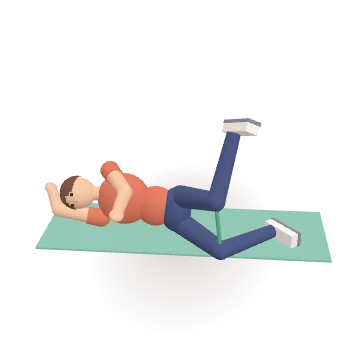
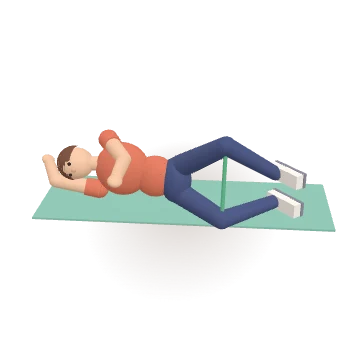
La app pasa a llamarse Mi Gym y se afinan movimientos
- Nombre Mi Gym en el icono del móvil, título, pestaña, bienvenida e
  imagen para compartir
- Revisión de los 68 ejercicios: sentadilla sumo con pies fijos y
  rodillas hacia fuera, apertura de rodilla tumbada (antes 'La almeja')
  abre solo la rodilla con los pies juntos, encogimiento de hombros
  más visible
- Miniaturas regeneradas

Claude-Session: https://claude.ai/code/session_01VezrFMdeigC6m4YvnxJoxX

Changed region(s): [[0.0917, 0.3056, 0.9472, 0.7333]]

diff --git a/js/anims.js b/js/anims.js
@@ -79,11 +79,12 @@
       ],
     },
     "sumo-squat": {
-      cam: 30, props: [{ type: "single" }],
+      cam: 18, pitch: 10, props: [{ type: "single" }], ikFeet: { pole: [0.85, 0.1, 1], from: 0 },
       frames: [
-        { hipL: [0, 22, 32], hipR: [0, 22, 32], shL: [6, -14, 0], shR: [6, -14, 0], elL: 4, elR: 4 },
-        { hipL: [62, 30, 32], hipR: [62, 30, 32], kneeL: 72, kneeR: 72, ankleL: -10, ankleR: -10, spine: [10, 0, 0], shL: [14, -14, 0], shR: [14, -14, 0], elL: 4, elR: 4 },
+        { hipL: [0, 15, 32], hipR: [0, 15, 32], shL: [6, -14, 0], shR: [6, -14, 0], elL: 4, elR: 4 },
+        { hipL: [64, 36, 32], hipR: [64, 36, 32], kneeL: 86, kneeR: 86, spine: [6, 0, 0], shL: [12, -14, 0], shR: [12, -14, 0], elL: 4, elR: 4 },
       ],
+      move: 1.4, hold: 0.5,
     },
     "split-squat": {
       cam: 80, ground: ["heelL", "toeL", "toeR"], anchor: "feet",
@@ -139,10 +140,12 @@
     },
     "clamshell": {
       ...LYING, ground: ["shoulderR", "pelvis", "kneeR"], cam: 5, pitch: 25, props: [MAT(90), { type: "band", links: [["kneeL", "kneeR"]] }],
+      ikFeet: { feet: "L", flat: "keep", y: "keep", from: 0, pole: [0, 1, 0.8] },
       frames: [
-        P(SIDE, { spine: [0, -12, 0], hipR: [50, 0, 0], kneeR: 90, hipL: [50, 0, 0], kneeL: 90, shR: [175, 0, 0], elR: 70, shL: [60, 0, 0], elL: 30, neck: [0, 14, 0] }),
-        P(SIDE, { spine: [0, -12, 0], hipR: [50, 0, 0], kneeR: 90, hipL: [50, 30, -38], kneeL: 90, shR: [175, 0, 0], elR: 70, shL: [60, 0, 0], elL: 30, neck: [0, 14, 0] }),
+        P(SIDE, { spine: [0, -12, 0], hipR: [50, 0, 0], kneeR: 90, hipL: [50, 0, 0], kneeL: 90, shR: [175, 0, 0], elR: 70, shL: [60, 0, 0], elL: 30, neck: [0, 14, 0], wFL: 0 }),
+        P(SIDE, { spine: [0, -12, 0], hipR: [50, 0, 0], kneeR: 90, hipL: [50, 0, 0], kneeL: 90, shR: [175, 0, 0], elR: 70, shL: [60, 0, 0], elL: 30, neck: [0, 14, 0], wFL: 1 }),
       ],
+      move: 1.2, hold: 0.5,
     },
 
     /* ================= ESPALDA ================= */
@@ -200,7 +203,7 @@
       cam: 30, props: [DB],
       frames: [
         { shL: [0, 6, 0], shR: [0, 6, 0], elL: 0, elR: 0 },
-        { shL: [0, 6, 0], shR: [0, 6, 0], elL: 0, elR: 0, shPL: [0.045, -0.01], shPR: [0.045, -0.01] },
+        { shL: [0, 6, 0], shR: [0, 6, 0], elL: 0, elR: 0, shPL: [0.075, -0.015], shPR: [0.075, -0.015], neck: [-4, 0, 0] },
       ],
       move: 0.7, hold: 0.4,
     },

diff --git a/js/app.js b/js/app.js
@@ -1,5 +1,5 @@
 /* =========================================================
-   Mi Gimnasio en Casa — lógica de la aplicación
+   Mi Gym — lógica de la aplicación
    Sin dependencias. Los datos se guardan en el propio
    navegador (localStorage).
    ========================================================= */
@@ -197,7 +197,7 @@
     g.beginPath(); g.arc(W - 120, 140, 220, 0, 7); g.fill();
     g.beginPath(); g.arc(90, H - 120, 180, 0, 7); g.fill(); g.globalAlpha = 1;
     // marca
-    g.fillStyle = "#1D2925"; g.font = F(800, 40); g.textAlign = "left"; g.fillText("Mi Gimnasio en Casa", 80, 110);
+    g.fillStyle = "#1D2925"; g.font = F(800, 40); g.textAlign = "left"; g.fillText("Mi Gym", 80, 110);
     // tarjeta
     g.save(); g.shadowColor = "rgba(20,30,25,.12)"; g.shadowBlur = 50; g.shadowOffsetY = 18;
     roundRect(g, 70, 160, W - 140, H - 300, 56); g.fillStyle = "#FFFFFF"; g.fill(); g.restore();
@@ -1236,7 +1236,7 @@
     document.body.dataset.sec = tab || "";
     main.classList.toggle("has-cta", !!view.cta);
     $("#pageTitle").textContent = view.title;
-    document.title = view.title ? `${view.title} · Mi Gimnasio` : "Mi Gimnasio en Casa";
+    document.title = view.title ? `${view.title} · Mi Gym` : "Mi Gym";
     $("#backBtn").hidden = !view.back;
     $$(".tabbar a").forEach((a) => a.classList.toggle("on", a.dataset.tab === tab));
     view.after?.();
@@ -1752,7 +1752,7 @@
      BIENVENIDA (primera vez)
      ========================================================= */
   function onboarding() {
-    openSheet(`<div class="center"><div style="font-size:3.5rem">👋</div><h2>¡Bienvenida a tu gimnasio en casa!</h2></div>
+    openSheet(`<div class="center"><img src="icons/icon.svg" alt="" style="width:96px;height:96px;border-radius:24px;margin-bottom:8px"><h2>¡Bienvenida a Mi Gym!</h2></div>
       <div class="stack">
         <p>Aquí tienes rutinas sencillas con <strong>mancuernas, bandas, esterilla</strong> o solo con tu cuerpo. La app te guía paso a paso, con temporizador y voz.</p>
         <label class="field"><span>¿Cómo te llamas?</span><input class="input" id="oName" maxlength="30" placeholder="Tu nombre"></label>

diff --git a/index.html b/index.html
@@ -3,12 +3,12 @@
 <head>
   <meta charset="utf-8" />
   <meta name="viewport" content="width=device-width, initial-scale=1, viewport-fit=cover" />
-  <title>Mi Gimnasio en Casa</title>
+  <title>Mi Gym</title>
   <meta name="description" content="Rutinas de ejercicio sencillas para hacer en casa con pesas, bandas y esterilla." />
   <meta name="theme-color" content="#F6F5FA" />
   <meta name="apple-mobile-web-app-capable" content="yes" />
   <meta name="apple-mobile-web-app-status-bar-style" content="default" />
-  <meta name="apple-mobile-web-app-title" content="Mi Gimnasio" />
+  <meta name="apple-mobile-web-app-title" content="Mi Gym" />
   <link rel="manifest" href="manifest.webmanifest" />
   <link rel="icon" href="icons/icon.svg" type="image/svg+xml" />
   <link rel="apple-touch-icon" href="icons/apple-touch-icon.png" />
@@ -22,7 +22,7 @@
     <button class="icon-btn back-btn" id="backBtn" aria-label="Volver" hidden>
       <svg viewBox="0 0 24 24"><path d="M15 18l-6-6 6-6"/></svg>
     </button>
-    <h1 id="pageTitle">Mi Gimnasio</h1>
+    <h1 id="pageTitle">Mi Gym</h1>
     <a class="icon-btn" href="#/ajustes" aria-label="Ajustes">
       <svg viewBox="0 0 24 24"><circle cx="12" cy="12" r="3"/><path d="M19.4 15a1.7 1.7 0 0 0 .3 1.8l.1.1a2 2 0 1 1-2.8 2.8l-.1-.1a1.7 1.7 0 0 0-1.8-.3 1.7 1.7 0 0 0-1 1.5V21a2 2 0 1 1-4 0v-.1a1.7 1.7 0 0 0-1.1-1.5 1.7 1.7 0 0 0-1.8.3l-.1.1a2 2 0 1 1-2.8-2.8l.1-.1a1.7 1.7 0 0 0 .3-1.8 1.7 1.7 0 0 0-1.5-1H3a2 2 0 1 1 0-4h.1a1.7 1.7 0 0 0 1.5-1.1 1.7 1.7 0 0 0-.3-1.8l-.1-.1a2 2 0 1 1 2.8-2.8l.1.1a1.7 1.7 0 0 0 1.8.3H9a1.7 1.7 0 0 0 1-1.5V3a2 2 0 1 1 4 0v.1a1.7 1.7 0 0 0 1 1.5 1.7 1.7 0 0 0 1.8-.3l.1-.1a2 2 0 1 1 2.8 2.8l-.1.1a1.7 1.7 0 0 0-.3 1.8V9a1.7 1.7 0 0 0 1.5 1H21a2 2 0 1 1 0 4h-.1a1.7 1.7 0 0 0-1.5 1z"/></svg>
     </a>

diff --git a/js/data.js b/js/data.js
@@ -759,13 +759,13 @@ const EXERCISES = [
     yt: "patada de gluteo de pie con silla mayores",
   },
   {
-    id: "clamshell", name: "La almeja con banda", zone: "piernas", equip: ["esterilla", "banda"], level: 1,
+    id: "clamshell", name: "Apertura de rodilla tumbada de lado", zone: "piernas", equip: ["esterilla", "banda"], level: 1,
     type: "reps", reps: 12, side: true,
     summary: "Glúteo lateral, muy bueno para la cadera.",
     steps: [
       "Túmbate de lado con las rodillas dobladas y la banda justo encima de las rodillas.",
       "Pies juntos y cadera quieta.",
-      "Abre la rodilla de arriba como una almeja, sin separar los pies.",
+      "Abre la rodilla de arriba hacia el techo, sin separar los pies.",
       "Cierra despacio. Haz todas y cambia de lado.",
     ],
     tips: ["Sin banda también funciona al principio."],

diff --git a/sw.js b/sw.js
@@ -1,6 +1,6 @@
 /* Service worker: permite usar la app sin conexión.
    Si cambias archivos, sube el número de versión. */
-const CACHE = "mi-gimnasio-v16";
+const CACHE = "mi-gimnasio-v17";
 const ASSETS = [
   "./", "index.html", "css/styles.css", "js/data.js", "js/app.js",
   "js/anims.js", "js/figure3d.js", "vendor/three.min.js",

diff --git a/README.md b/README.md
@@ -1,4 +1,4 @@
-# 🏋♀ Mi Gimnasio en Casa
+# 🐒 Mi Gym
 
 Aplicación web sencilla para entrenar en casa, pensada para personas mayores de 60 años que empiezan.
 Solo necesita **mancuernas, banda elástica, esterilla, una silla** o el propio cuerpo.
